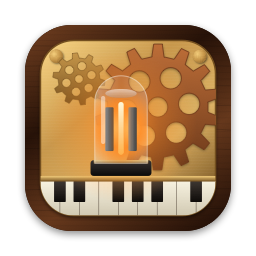
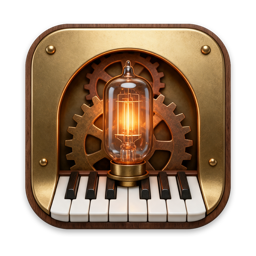
v1.4.1: ícone novo gerado com IA
Substitui o ícone desenhado em código por um render 3D steampunk:
válvula acesa num arco de latão, engrenagens de cobre e teclado de
piano, moldura de nogueira. Recortado do render e ajustado à grade de
ícones do macOS (forma de 824/1024 px, cantos de 21,5%, sombra suave)
por scripts/make-icon-master.swift. O build gera os 10 tamanhos a
partir de Resources/AppIcon.png.

diff --git a/scripts/make-icon-master.swift b/scripts/make-icon-master.swift
@@ -1,0 +1,33 @@
+// Recorta o render escolhido (squircle sobre fundo cinza) e gera o ícone-mestre
+// 1024×1024 com transparência na grade do macOS (forma de 824 px, sombra suave).
+// Uso: swift scripts/make-icon-master.swift <render.png> <left> <top> <right> <bottom> <saída.png>
+import AppKit
+let a = CommandLine.arguments
+let src = NSImage(contentsOfFile: a[1])!
+let rep = NSBitmapImageRep(data: src.tiffRepresentation!)!
+let (l, t, r, b) = (CGFloat(Double(a[2])!), CGFloat(Double(a[3])!), CGFloat(Double(a[4])!), CGFloat(Double(a[5])!))
+let H = CGFloat(rep.pixelsHigh)
+let inset: CGFloat = 3 // descarta a borda serrilhada com o cinza
+let srcRect = NSRect(x: l + inset, y: H - b + inset, width: r - l - inset * 2, height: b - t - inset * 2)
+
+let S: CGFloat = 1024, shape: CGFloat = 824, radius: CGFloat = 0.215 * shape
+let canvas = NSBitmapImageRep(bitmapDataPlanes: nil, pixelsWide: Int(S), pixelsHigh: Int(S), bitsPerSample: 8,
+                              samplesPerPixel: 4, hasAlpha: true, isPlanar: false, colorSpaceName: .deviceRGB, bytesPerRow: 0, bitsPerPixel: 0)!
+NSGraphicsContext.saveGraphicsState()
+NSGraphicsContext.current = NSGraphicsContext(bitmapImageRep: canvas)
+NSGraphicsContext.current?.imageInterpolation = .high
+let dst = NSRect(x: (S - shape) / 2, y: (S - shape) / 2 + 6, width: shape, height: shape)
+let path = NSBezierPath(roundedRect: dst, xRadius: radius, yRadius: radius)
+// sombra
+let ctx = NSGraphicsContext.current!.cgContext
+ctx.saveGState()
+ctx.setShadow(offset: CGSize(width: 0, height: -10), blur: 24, color: NSColor.black.withAlphaComponent(0.35).cgColor)
+NSColor.black.setFill(); path.fill()
+ctx.restoreGState()
+// arte
+ctx.saveGState()
+path.addClip()
+src.draw(in: dst, from: srcRect, operation: .copy, fraction: 1)
+ctx.restoreGState()
+NSGraphicsContext.restoreGraphicsState()
+try! canvas.representation(using: .png, properties: [:])!.write(to: URL(fileURLWithPath: a[6]))

diff --git a/README.es.md b/README.es.md
@@ -100,7 +100,7 @@ Sources/App.swift          app, ventana e icono de la barra de menús
 Sources/SteampunkUI.swift  panel steampunk: válvulas, vúmetros, interruptores, Nixie
 Sources/Strings.swift      textos de la interfaz en portugués, inglés y español
 Resources/Info.plist       metadatos de la app
-scripts/make-icon.swift    genera el icono
+Resources/AppIcon.png      icono maestro de 1024 px (generado con IA y recortado por scripts/make-icon-master.swift)
 build.sh                   compila, arma la .app, firma y crea el .dmg
 ```
 

diff --git a/README.en.md b/README.en.md
@@ -100,7 +100,7 @@ Sources/App.swift          app, window and menu-bar icon
 Sources/SteampunkUI.swift  steampunk panel: tubes, VU meters, switches, Nixie
 Sources/Strings.swift      UI text in Portuguese, English and Spanish
 Resources/Info.plist       app metadata
-scripts/make-icon.swift    generates the icon
+Resources/AppIcon.png      1024 px master icon (AI-generated, cut out by scripts/make-icon-master.swift)
 build.sh                   compiles, assembles the .app, signs and creates the .dmg
 ```
 

diff --git a/README.md b/README.md
@@ -99,7 +99,7 @@ Sources/DiagLog.swift      log de diagnóstico em ~/Library/Logs
 Sources/App.swift          app, janela e ícone da barra de menus
 Sources/SteampunkUI.swift  painel steampunk: válvulas, VU meters, chaves, Nixie
 Resources/Info.plist       metadados do app
-scripts/make-icon.swift    gera o ícone
+Resources/AppIcon.png      ícone-mestre 1024 px (gerado com IA e recortado por scripts/make-icon-master.swift)
 build.sh                   compila, monta o .app, assina e cria o .dmg
 ```
 
